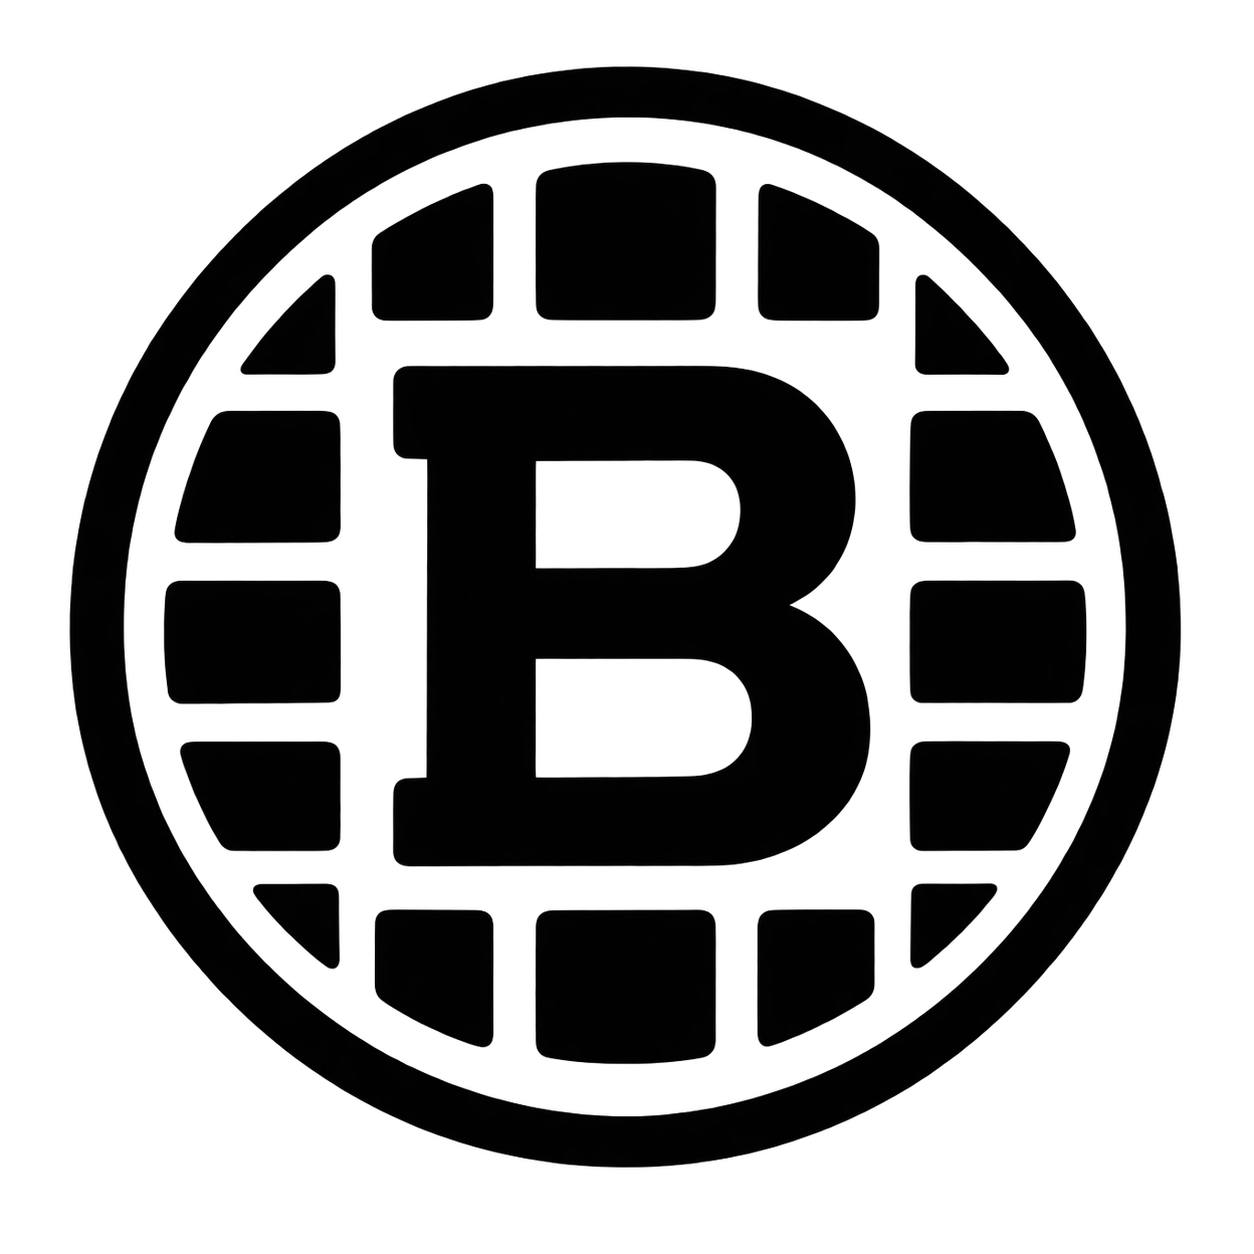
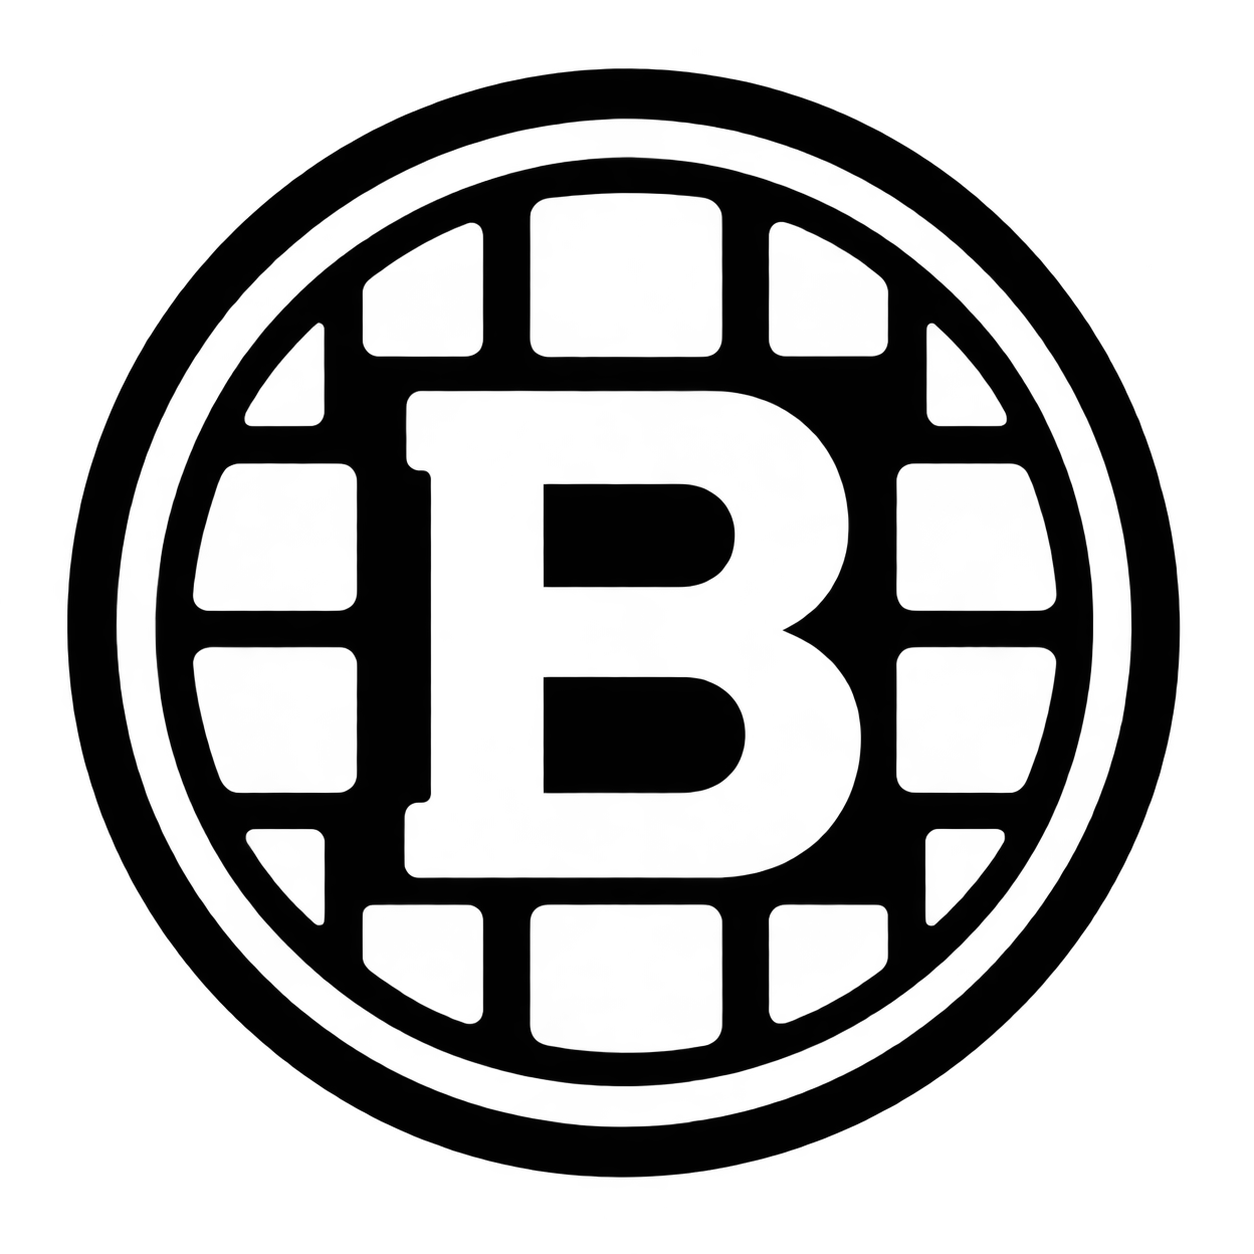
feat: add theme-aware hero waffle images
Show the white waffle in light theme and the black waffle in dark theme, replacing the CSS invert filter and removing the oversized PNG.

diff --git a/src/styles/global.css b/src/styles/global.css
@@ -69,8 +69,9 @@ h1 { font-size: 64px; font-weight: 700; margin-bottom: 16px; }
 .hero { display: flex; flex-direction: column; align-items: center; gap: 32px; margin-top: 160px; }
 .hero-text { text-align: center; }
 .hero-text h1 { font-size: 30px; }
-.hero-black { width: 125px; height: auto; flex: none; filter: invert(1); }
-html[data-theme='light'] .hero-black { filter: none; }
+.hero-waffle { width: 125px; height: auto; flex: none; }
+html[data-theme='light'] .hero-waffle-white { display: none; }
+html[data-theme='dark'] .hero-waffle-black { display: none; }
 
 .projects { margin-top: 72px; }
 .projects h2 { font-size: 14px; color: var(--comment); text-transform: uppercase; letter-spacing: .12em; margin-bottom: 16px; text-align: center; }
